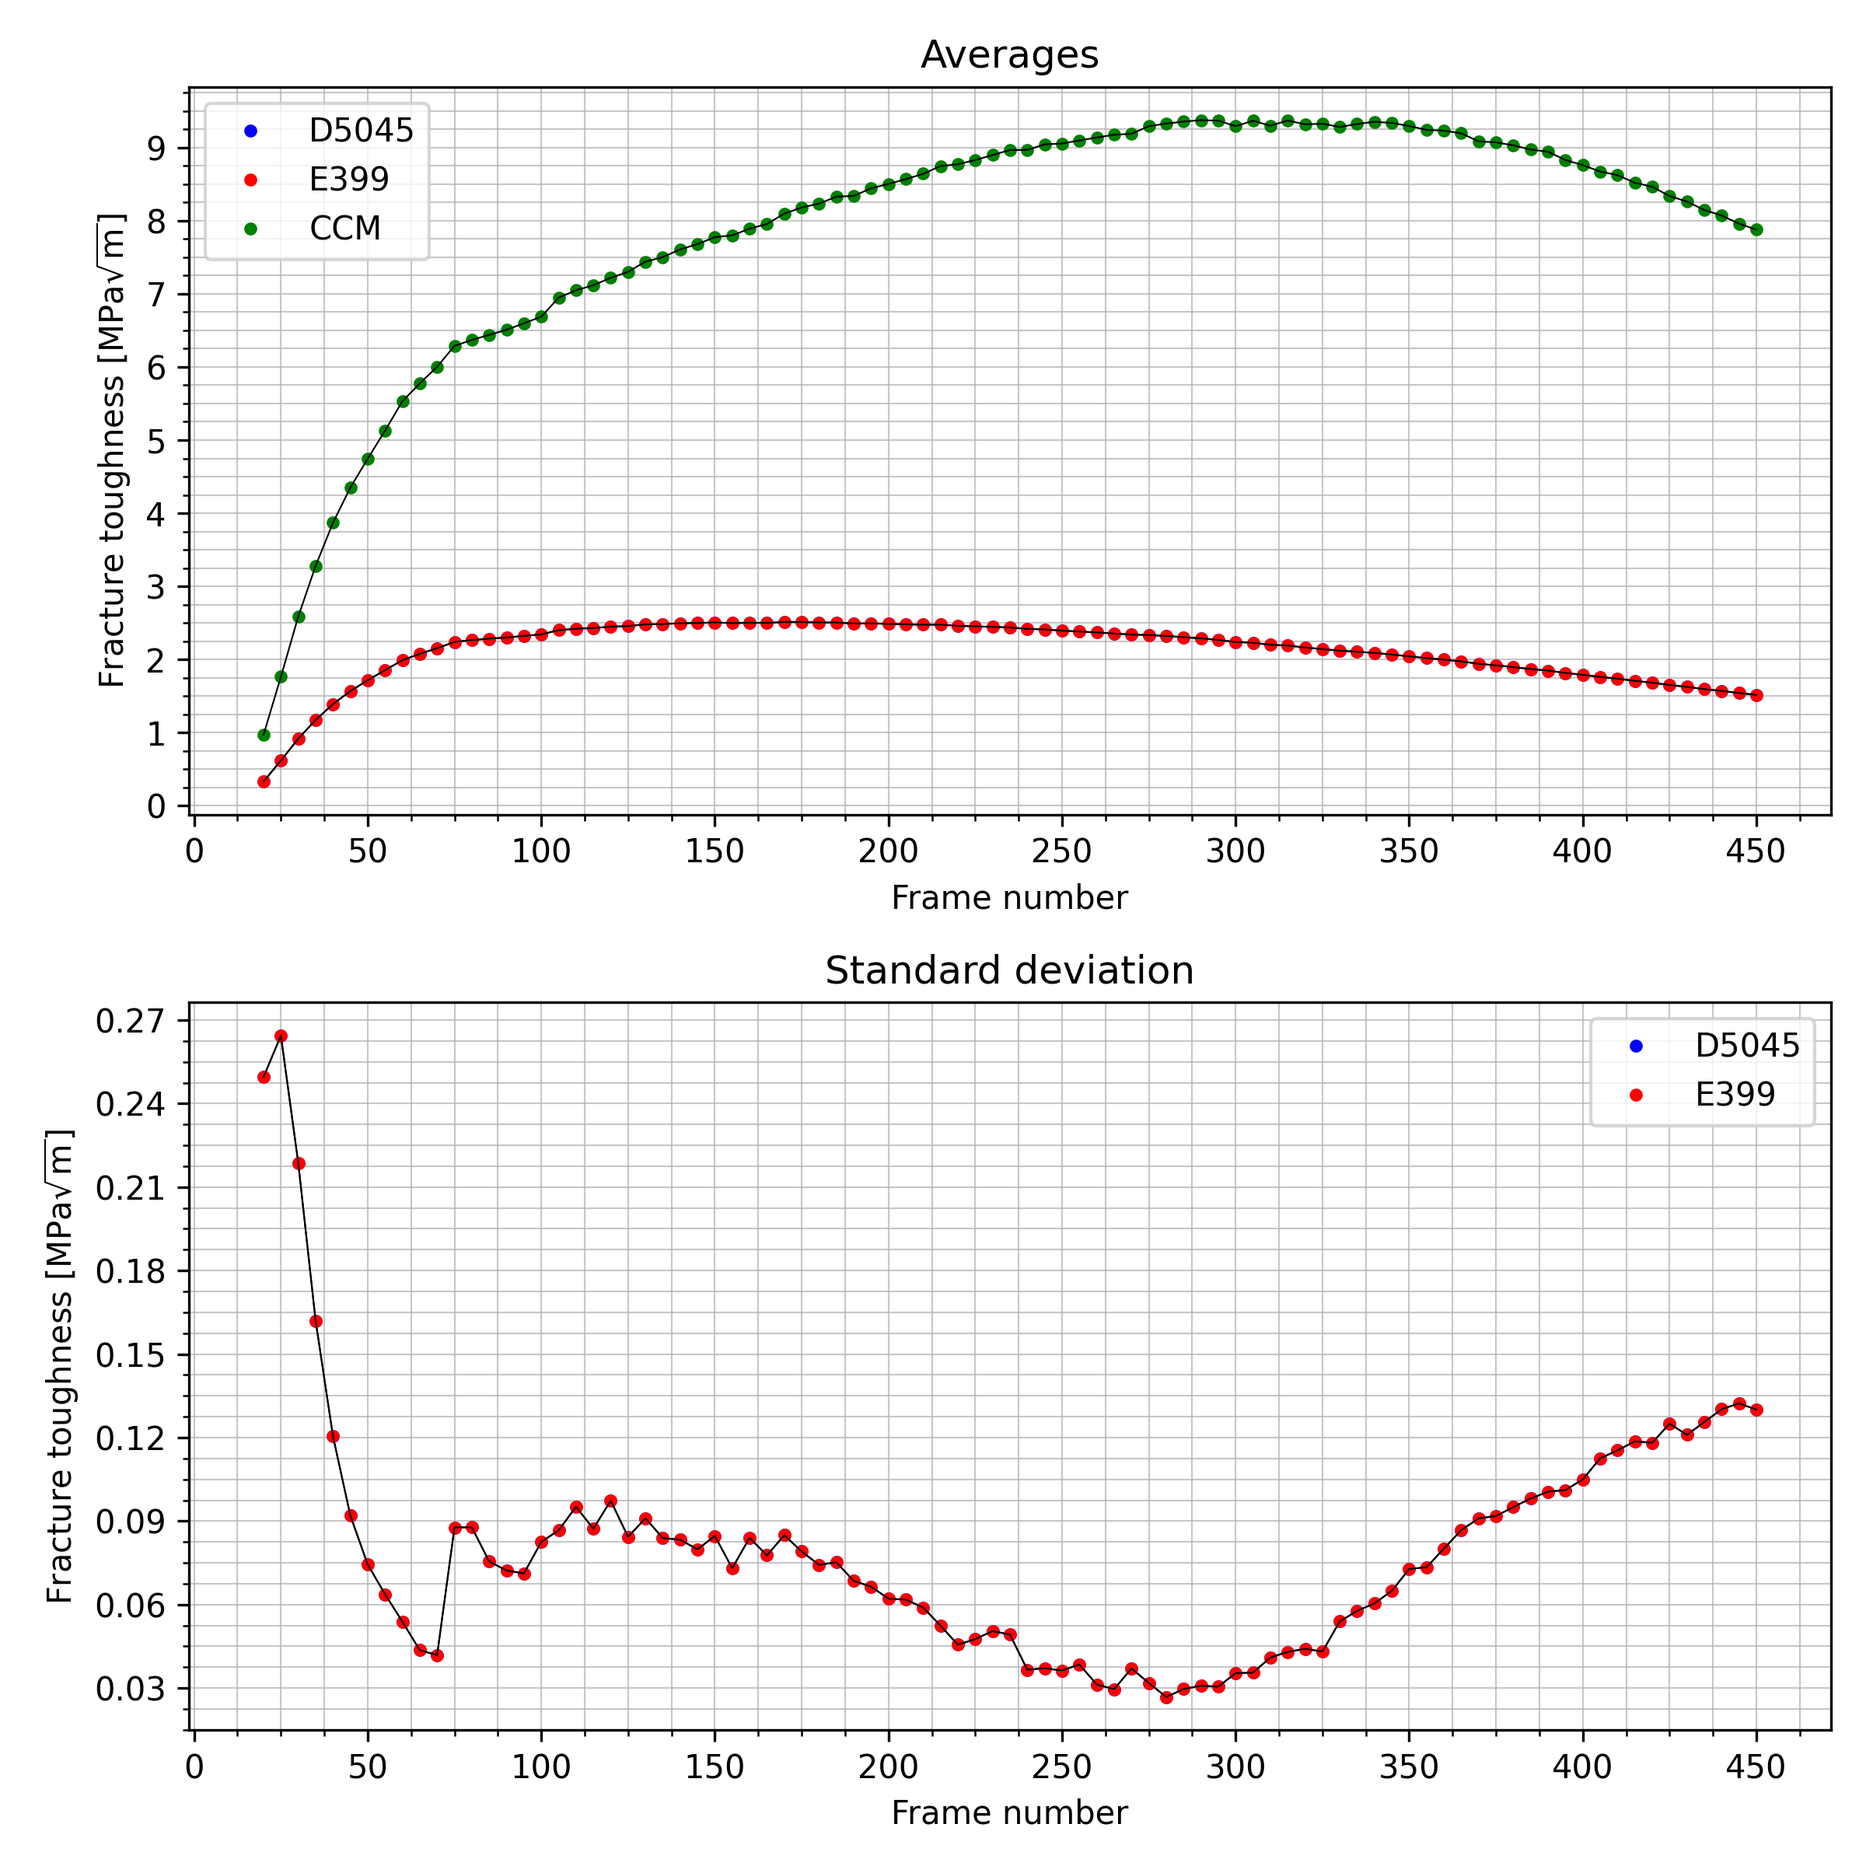
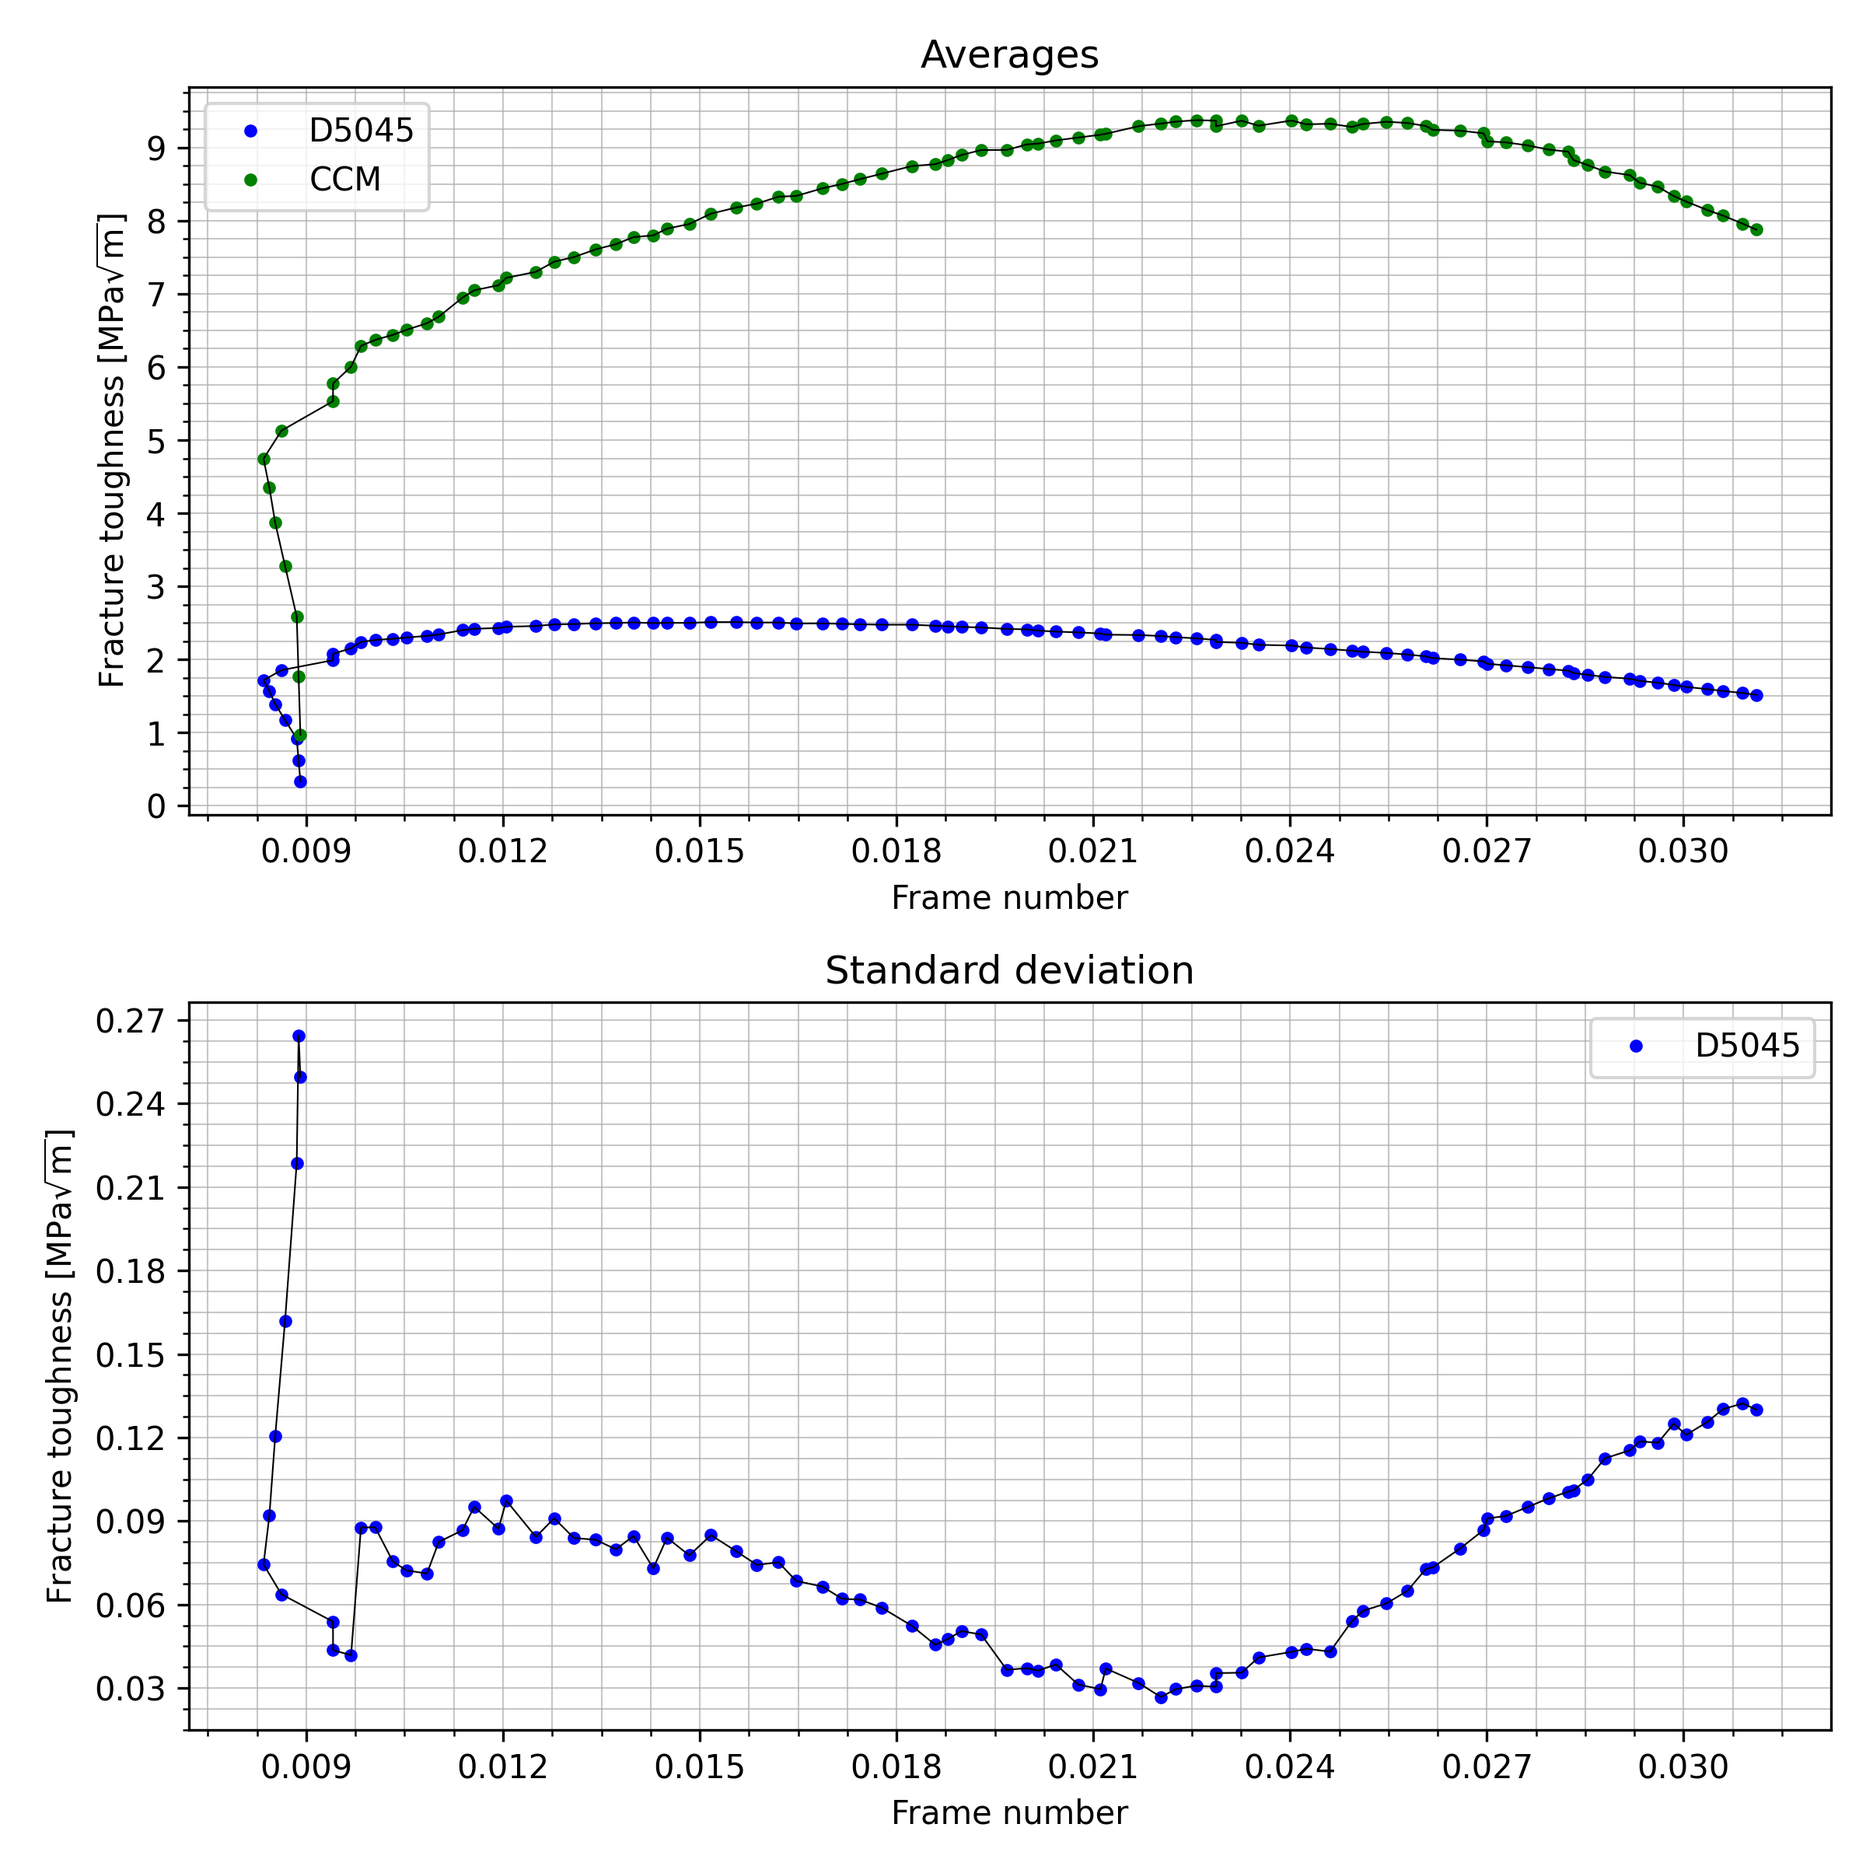
plots

diff --git a/main.py b/main.py
@@ -34,9 +34,9 @@ specimenGeometryArray = np.array([specimenHeight,specimenWidth,specimenThickness
 def plot_including_area_method():
     fig, axs = plt.subplots(3, 1, figsize=(8, 8))  # One figure with 3 vertical subplots
     for sample_number in range(1,4):
-        frames=d5045.frames(sample_number)
+        frames=d5045.crack_tip_length(sample_number)
         method_d5045=d5045.fracture_toughnesses(sample_number)
-        method_e399=e399.fracture_toughnesses(sample_number)
+        #method_e399=e399.fracture_toughnesses(sample_number)
         method_area=area.fracture_toughnesses(sample_number)
         method_ccm=ccm.fracture_toughnesses(sample_number)[0]
 
@@ -45,8 +45,8 @@ def plot_including_area_method():
         ax.plot(frames, method_d5045, 'o', color='blue', markersize=3, label='D5045')
         ax.plot(frames, method_d5045, '-', color='black', linewidth=0.5)
 
-        ax.plot(frames, np.array(method_e399) * 1e-6, 'o', color='red', markersize=3, label='E399')
-        ax.plot(frames, np.array(method_e399) * 1e-6, '-', color='black', linewidth=0.5)
+        #ax.plot(frames, np.array(method_e399) * 1e-6, 'o', color='red', markersize=3, label='E399')
+        #ax.plot(frames, np.array(method_e399) * 1e-6, '-', color='black', linewidth=0.5)
 
         ax.plot(frames, np.array(method_area) * 1e-6, 'o', color='orange', markersize=3, label='Area')
         ax.plot(frames, np.array(method_area) * 1e-6, '-', color='black', linewidth=0.5)
@@ -75,9 +75,9 @@ def plot_including_area_method():
 def reduced_plot_including_area_method():
     fig, axs = plt.subplots(3, 1, figsize=(8, 8))  # One figure with 3 vertical subplots
     for sample_number in range(1,4):
-        frames=d5045.frames(sample_number)
+        frames=d5045.crack_tip_length(sample_number)
         method_d5045=d5045.fracture_toughnesses(sample_number)
-        method_e399=e399.fracture_toughnesses(sample_number)
+        #method_e399=e399.fracture_toughnesses(sample_number)
         method_area=area.fracture_toughnesses(sample_number)
         method_ccm=ccm.fracture_toughnesses(sample_number)[0]
 
@@ -88,8 +88,8 @@ def reduced_plot_including_area_method():
         ax.plot(frames, method_d5045, 'o', color='blue', markersize=3, label='D5045')
         ax.plot(frames, method_d5045, '-', color='black', linewidth=0.5)
 
-        ax.plot(frames, np.array(method_e399) * 1e-6, 'o', color='red', markersize=3, label='E399')
-        ax.plot(frames, np.array(method_e399) * 1e-6, '-', color='black', linewidth=0.5)
+        #ax.plot(frames, np.array(method_e399) * 1e-6, 'o', color='red', markersize=3, label='E399')
+        #ax.plot(frames, np.array(method_e399) * 1e-6, '-', color='black', linewidth=0.5)
 
         ax.plot(frames, np.array(method_area) * 1e-6, 'o', color='orange', markersize=3, label='Area')
         ax.plot(frames, np.array(method_area) * 1e-6, '-', color='black', linewidth=0.5)
@@ -120,9 +120,9 @@ def reduced_plot_including_area_method():
 def plot_excluding_area_method():
     fig, axs = plt.subplots(3, 1, figsize=(8, 8))  # One figure with 3 vertical subplots
     for sample_number in range(1,4):
-        frames=d5045.frames(sample_number)
+        frames=d5045.crack_tip_length(sample_number)
         method_d5045=d5045.fracture_toughnesses(sample_number)
-        method_e399=e399.fracture_toughnesses(sample_number)
+        #method_e399=e399.fracture_toughnesses(sample_number)
         method_area=area.fracture_toughnesses(sample_number)
         method_ccm=ccm.fracture_toughnesses(sample_number)[0]
 
@@ -131,8 +131,8 @@ def plot_excluding_area_method():
         ax.plot(frames, method_d5045, 'o', color='blue', markersize=3, label='D5045')
         ax.plot(frames, method_d5045, '-', color='black', linewidth=0.5)
 
-        ax.plot(frames, np.array(method_e399) * 1e-6, 'o', color='red', markersize=3, label='E399')
-        ax.plot(frames, np.array(method_e399) * 1e-6, '-', color='black', linewidth=0.5)
+        #ax.plot(frames, np.array(method_e399) * 1e-6, 'o', color='red', markersize=3, label='E399')
+        #ax.plot(frames, np.array(method_e399) * 1e-6, '-', color='black', linewidth=0.5)
 
         #ax.plot(frames, np.array(method_area) * 1e-6, 'o', color='orange', markersize=3, label='Area')
         #ax.plot(frames, np.array(method_area) * 1e-6, '-', color='black', linewidth=0.5)
@@ -158,37 +158,7 @@ def plot_excluding_area_method():
     plt.savefig("fracture_toughness_plot_excluding_area_method.png", dpi=300)
     #plt.show()
 
-def average_excluding_area_method():
-    fig, axs = plt.subplots(3, 1, figsize=(8, 8))  # One figure with 3 vertical subplots
-    for sample_number in range(1,4):
-        frames=d5045.frames(sample_number)
-        method_d5045=d5045.fracture_toughnesses(sample_number)
-        method_e399=e399.fracture_toughnesses(sample_number)
-        #method_area=area.fracture_toughnesses(sample_number)
-        method_ccm=ccm.fracture_toughnesses(sample_number)[0]
-        
-        average=(np.array(method_d5045)+np.array(method_e399)*1e-6+np.array(method_ccm))/3
-        ax = axs[sample_number - 1]  # Index starts from 0
-    
-        ax.plot(frames, average, 'o', color='blue', markersize=3, label='Average')
-        ax.plot(frames, average, '-', color='black', linewidth=0.5)
 
-
-        ax.set_xlabel('Frame number')
-        ax.set_ylabel(r'Average fracture toughness [MPa$\sqrt{\mathrm{m}}$]')
-        ax.set_title(f'Sample {sample_number}')
-
-        ax.minorticks_on()
-        ax.xaxis.set_minor_locator(AutoMinorLocator(4))
-        ax.yaxis.set_minor_locator(AutoMinorLocator(4))
-        ax.xaxis.set_major_locator(MaxNLocator(nbins=10))
-        ax.yaxis.set_major_locator(MaxNLocator(nbins=10))
-        ax.grid(True, which='both', linewidth=0.5, alpha=0.7)
-        ax.legend()
-
-    plt.tight_layout()
-    plt.savefig("average_fracture_toughness_plot_excluding_area_method.png", dpi=300)
-    #plt.show()
 
 
 def averages():
@@ -196,23 +166,23 @@ def averages():
     ax1=axs[0]
     ax2=axs[1]
 
-    frames=d5045.frames(1)
+    frames=d5045.crack_tip_length(1)
     average_method_d5045=(np.array(d5045.fracture_toughnesses(1))+np.array(d5045.fracture_toughnesses(2))+np.array(d5045.fracture_toughnesses(3)))/3
-    average_method_e399=(np.array(e399.fracture_toughnesses(1))+np.array(e399.fracture_toughnesses(2))+np.array(e399.fracture_toughnesses(3)))/3*1e-6
+    #average_method_e399=(np.array(e399.fracture_toughnesses(1))+np.array(e399.fracture_toughnesses(2))+np.array(e399.fracture_toughnesses(3)))/3*1e-6
     average_method_area=(np.array(area.fracture_toughnesses(1))+np.array(area.fracture_toughnesses(2))+np.array(area.fracture_toughnesses(3)))/3
     average_method_ccm=(np.array(ccm.fracture_toughnesses(1)[0])+np.array(ccm.fracture_toughnesses(2)[0])+np.array(ccm.fracture_toughnesses(3)[0]))/3
     
     
     standard_deviation_d5045=np.sqrt(((average_method_d5045-np.array(d5045.fracture_toughnesses(1)))**2+(average_method_d5045-np.array(d5045.fracture_toughnesses(2)))**2)/3)
-    standard_deviation_e399=np.sqrt(((average_method_e399-np.array(e399.fracture_toughnesses(1))*1e-6)**2+(average_method_e399-np.array(e399.fracture_toughnesses(2))*1e-6)**2)/3)
+    #standard_deviation_e399=np.sqrt(((average_method_e399-np.array(e399.fracture_toughnesses(1))*1e-6)**2+(average_method_e399-np.array(e399.fracture_toughnesses(2))*1e-6)**2)/3)
     standard_deviation_ccm=np.sqrt(((average_method_ccm*1e-6-np.array(ccm.fracture_toughnesses(1)[0]))**2+(average_method_ccm-np.array(ccm.fracture_toughnesses(2)[0])*1e-6)**2)/3)
     standard_deviation_area=np.sqrt(((average_method_area-np.array(area.fracture_toughnesses(1)))**2+(average_method_area-np.array(area.fracture_toughnesses(2)))**2)/3)
 
     ax1.plot(frames, average_method_d5045, 'o', color='blue', markersize=3, label='D5045')
     ax1.plot(frames, average_method_d5045, '-', color='black', linewidth=0.5)
 
-    ax1.plot(frames, average_method_e399, 'o', color='red', markersize=3, label='E399')
-    ax1.plot(frames, average_method_e399, '-', color='black', linewidth=0.5)
+    #ax1.plot(frames, average_method_e399, 'o', color='red', markersize=3, label='E399')
+    #ax1.plot(frames, average_method_e399, '-', color='black', linewidth=0.5)
 
     #ax1.plot(frames, np.array(average_method_area), 'o', color='orange', markersize=3, label='Area')
     #ax1.plot(frames, np.array(average_method_area), '-', color='black', linewidth=0.5)
@@ -235,8 +205,8 @@ def averages():
     ax2.plot(frames, standard_deviation_d5045, 'o', color='blue', markersize=3, label='D5045')
     ax2.plot(frames, standard_deviation_d5045, '-', color='black', linewidth=0.5)
 
-    ax2.plot(frames, standard_deviation_e399, 'o', color='red', markersize=3, label='E399')
-    ax2.plot(frames, standard_deviation_e399, '-', color='black', linewidth=0.5)
+    #ax2.plot(frames, standard_deviation_e399, 'o', color='red', markersize=3, label='E399')
+    #ax2.plot(frames, standard_deviation_e399, '-', color='black', linewidth=0.5)
 
     #ax2.plot(frames, standard_deviation_area, 'o', color='orange', markersize=3, label='Area')
     #ax2.plot(frames, standard_deviation_area, '-', color='black', linewidth=0.5)
@@ -263,25 +233,25 @@ def averages():
 def absolute_differences():
     fig, axs = plt.subplots(1, 1, figsize=(8, 8))  # One figure with 3 vertical subplots
     
-    frames=d5045.frames(1)
+    frames=d5045.crack_tip_length(1)
     average_method_d5045=(np.array(d5045.fracture_toughnesses(1))+np.array(d5045.fracture_toughnesses(2))+np.array(d5045.fracture_toughnesses(3)))/3
-    average_method_e399=1e-6*(np.array(e399.fracture_toughnesses(1))+np.array(e399.fracture_toughnesses(2))+np.array(e399.fracture_toughnesses(3)))/3
+    #average_method_e399=1e-6*(np.array(e399.fracture_toughnesses(1))+np.array(e399.fracture_toughnesses(2))+np.array(e399.fracture_toughnesses(3)))/3
     #average_method_area=(np.array(area.fracture_toughnesses(1))+np.array(area.fracture_toughnesses(2))+np.array(area.fracture_toughnesses(3)))/3
     average_method_ccm=(np.array(ccm.fracture_toughnesses(1)[0])+np.array(ccm.fracture_toughnesses(2)[0])+np.array(ccm.fracture_toughnesses(3)[0]))/3
     
-    differences_1=abs(average_method_d5045-average_method_e399)
+    #differences_1=abs(average_method_d5045-average_method_e399)
     differences_2=abs(average_method_d5045-average_method_ccm)
-    differences_3=abs(average_method_e399-average_method_ccm)
+    #differences_3=abs(average_method_e399-average_method_ccm)
 
 
-    axs.plot(frames, differences_1, 'o', color='blue', markersize=3, label='D5045 vs. E399')
-    axs.plot(frames, differences_1, '-', color='black', linewidth=0.5)
+    #axs.plot(frames, differences_1, 'o', color='blue', markersize=3, label='D5045 vs. E399')
+    #axs.plot(frames, differences_1, '-', color='black', linewidth=0.5)
 
     axs.plot(frames, differences_2, 'o', color='red', markersize=3, label='D5045 vs. CCM')
     axs.plot(frames, differences_2, '-', color='black', linewidth=0.5)
 
-    axs.plot(frames, differences_3, 'o', color='green', markersize=3, label='E399 vs. CCM')
-    axs.plot(frames, differences_3, '-', color='black', linewidth=0.5)
+    #axs.plot(frames, differences_3, 'o', color='green', markersize=3, label='E399 vs. CCM')
+    #axs.plot(frames, differences_3, '-', color='black', linewidth=0.5)
 
     axs.set_xlabel('Frame number')
     axs.set_ylabel(r'Fracture toughness [MPa$\sqrt{\mathrm{m}}$]')
@@ -302,19 +272,19 @@ def absolute_differences():
 def percentage():
     fig, axs = plt.subplots(1, 1, figsize=(8, 8))  # One figure with 3 vertical subplots
     
-    frames=d5045.frames(1)
+    frames=d5045.crack_tip_length(1)
     average_method_d5045=(np.array(d5045.fracture_toughnesses(1))+np.array(d5045.fracture_toughnesses(2))+np.array(d5045.fracture_toughnesses(3)))/3
-    average_method_e399=1e-6*(np.array(e399.fracture_toughnesses(1))+np.array(e399.fracture_toughnesses(2))+np.array(e399.fracture_toughnesses(3)))/3
+    #average_method_e399=1e-6*(np.array(e399.fracture_toughnesses(1))+np.array(e399.fracture_toughnesses(2))+np.array(e399.fracture_toughnesses(3)))/3
     # average_method_area=(np.array(area.fracture_toughnesses(1))+np.array(area.fracture_toughnesses(2))+np.array(area.fracture_toughnesses(3)))/3
     average_method_ccm=(np.array(ccm.fracture_toughnesses(1)[0])+np.array(ccm.fracture_toughnesses(2)[0])+np.array(ccm.fracture_toughnesses(3)[0]))/3
     
-    perentage_1=abs(100*(average_method_d5045-average_method_e399)/average_method_e399)
-    percentage_2=abs(100*(average_method_d5045-average_method_e399)/average_method_e399)
+    #perentage_1=abs(100*(average_method_d5045-average_method_e399)/average_method_e399)
+    #percentage_2=abs(100*(average_method_d5045-average_method_e399)/average_method_e399)
     # differences_3=abs(average_method_e399-average_method_ccm)
 
 
-    axs.plot(frames, perentage_1, 'o', color='blue', markersize=3, label='D5045 of E399')
-    axs.plot(frames, perentage_1, '-', color='black', linewidth=0.5)
+    #axs.plot(frames, perentage_1, 'o', color='blue', markersize=3, label='D5045 of E399')
+    #axs.plot(frames, perentage_1, '-', color='black', linewidth=0.5)
 
     # axs.plot(frames, percentage_2, 'o', color='red', markersize=3, label='D5045 vs. CCM')
     # axs.plot(frames, percentage_2, '-', color='black', linewidth=0.5)
@@ -346,12 +316,12 @@ def percentage():
     #     print(f"Frame {frame_index} is not in the list of frames.")
 
 
-#plot_excluding_area_method()
-#plot_including_area_method()
-#reduced_plot_including_area_method()
+plot_excluding_area_method()
+plot_including_area_method()
+reduced_plot_including_area_method()
 #average_excluding_area_method()
-# absolute_differences()
-#percentage()
+absolute_differences()
+percentage()
 averages()
 
 
